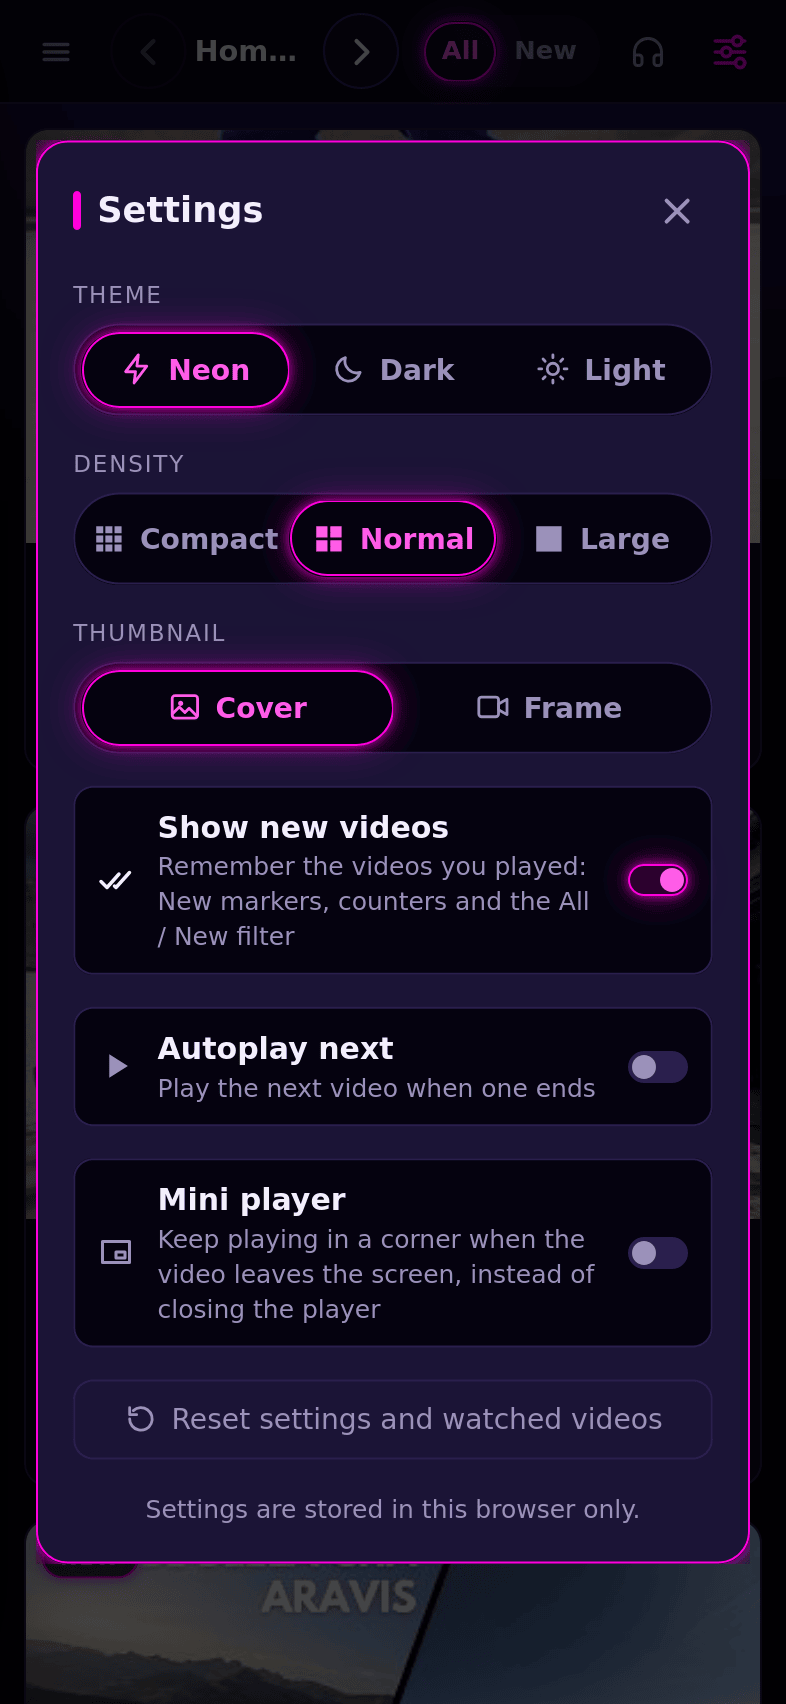
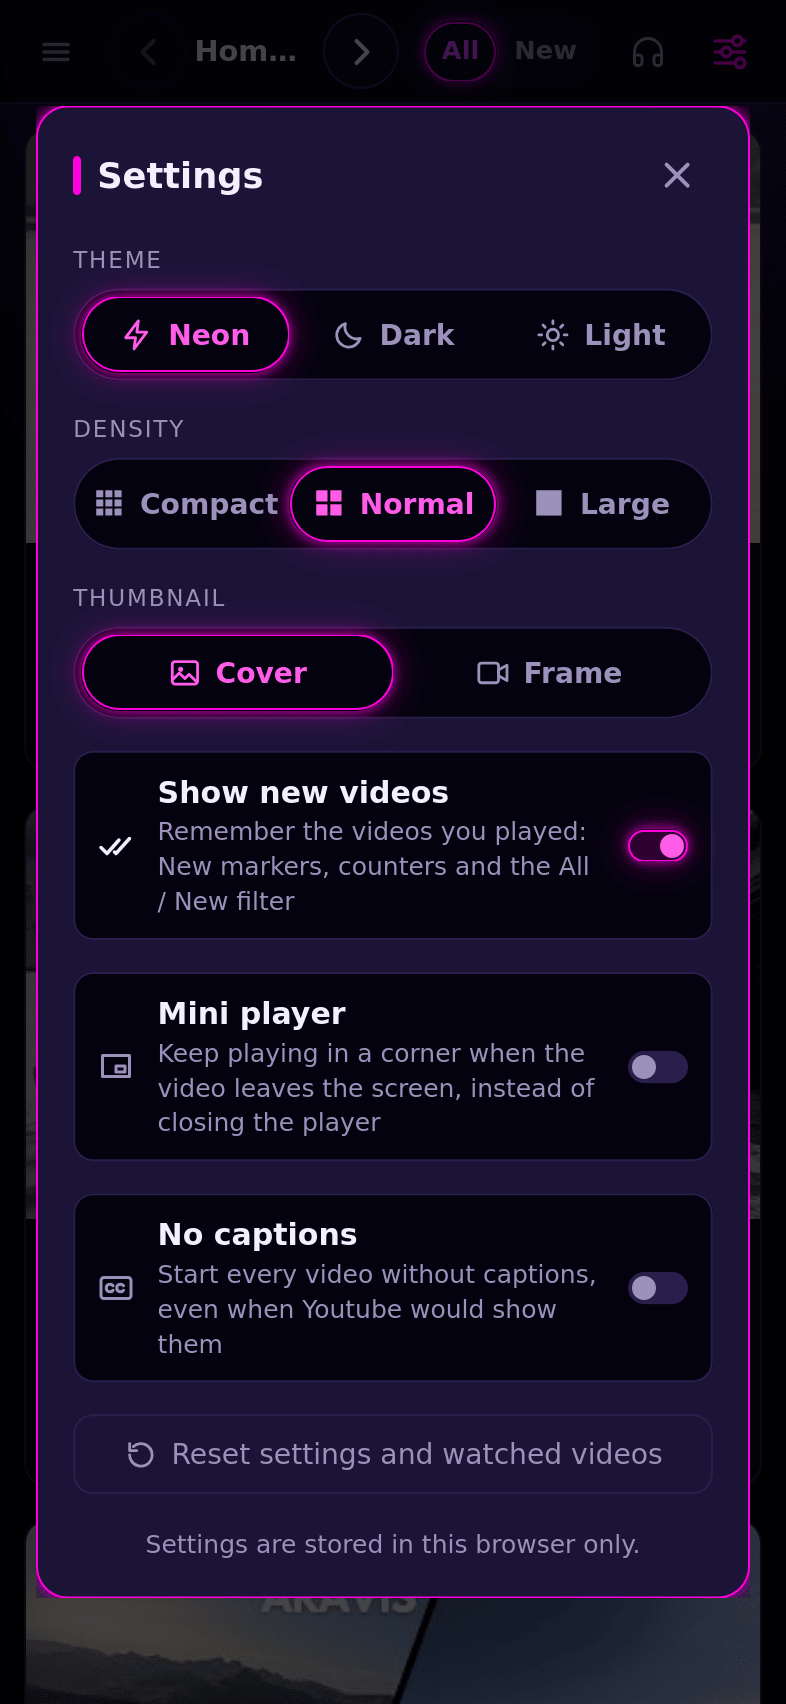
✨ Settings: No captions, Autoplay next removed
Youtube turns captions on by itself, for a video in another language than the browser: the
No captions setting starts every video without them. Autoplay next is dropped, Listen plays the
videos one after the other.

diff --git a/src/yourss/static/yourss-player.js b/src/yourss/static/yourss-player.js
@@ -73,6 +73,8 @@ export function createPlayer(YT, host, videoId, { onReady, onEnded, onState, onE
         }
       },
       onError: (event) => onError?.(event.data),
+      // Undocumented: the captions module loads after onReady and again with each video, firing this event
+      onApiChange: (event) => flag("no-captions") && event.target.setOption?.("captions", "track", {}),
     },
   })
 }
@@ -224,9 +226,9 @@ function onState(state) {
   hooks.onState?.(on, state)
 }
 
-// End of a video: the next one in listen mode or with autoplay, else a mini player is closed.
+// End of a video: the next one in listen mode, else a mini player is closed.
 function onEnded() {
-  if (listening() || flag("autoplay")) {
+  if (listening()) {
     step(1)
   } else if ($(".yourss-video.is-docked")) {
     closePlayer()

diff --git a/README.md b/README.md
@@ -67,11 +67,11 @@ Turn on *Show new videos* in the settings and the videos you played for a few se
 
 ### ▶ Play in the page
 
-Click a thumbnail to play: the player takes the whole row, or the whole screen on a phone. A link on each card opens the video on Youtube. The next video can be played automatically.
+Click a thumbnail to play: the player takes the whole row, or the whole screen on a phone. A link on each card opens the video on Youtube. To play the videos one after the other, use *Listen*.
 
 ### 📺 Keep watching while you browse
 
-Turn on the *Mini player* in the settings: when you scroll away, the video keeps playing in a corner of the screen, without a gap, while you browse the rest of the page. Its card shows where it comes from, a click (or ↩) brings you back to it, 🎧 turns it into the listen player, and with *Autoplay next* the next video starts in the mini player. Without it, the player is closed as soon as its card leaves the screen. Opening another folder or channel closes it.
+Turn on the *Mini player* in the settings: when you scroll away, the video keeps playing in a corner of the screen, without a gap, while you browse the rest of the page. Its card shows where it comes from, a click (or ↩) brings you back to it and 🎧 turns it into the listen player. Without it, the player is closed as soon as its card leaves the screen. Opening another folder or channel closes it.
 
 ### 📂 Channels and playlists, inside the page
 
@@ -81,6 +81,7 @@ Click a channel in the sidebar to browse it without leaving your page: its recen
 
 - three themes (neon, dark, light), to pick on the home page or in the settings, and three density levels
 - thumbnails: the cover chosen by the channel, or a frame from the middle of the video, less clickbait
+- *No captions* in the settings: Youtube turns captions on by itself (a video in another language than your browser), this setting starts every video without them
 - works on desktop and mobile, can be added to the home screen of a phone
 - instant search in the titles
 - keyboard shortcuts: arrows move in the grid, `Space` plays, `n`/`p` play the next/previous video, `l` listens, `Shift`+`↑`/`↓` change channel, `Shift`+`←`/`→` change folder… press `?` for the list
